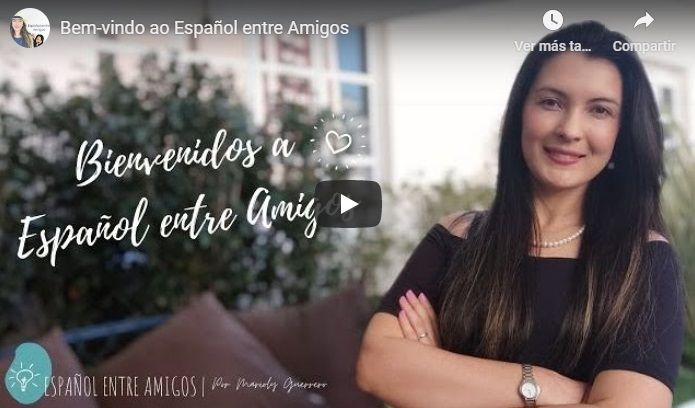
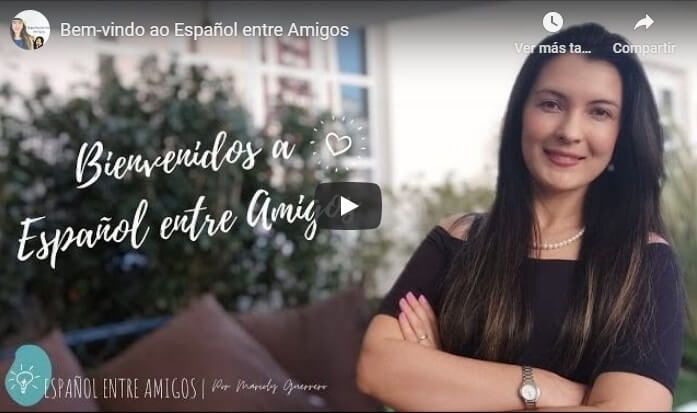
tareas de optimizacion

diff --git a/src/index.html b/src/index.html
@@ -5,14 +5,14 @@
     <title>Español entre Amigos</title>
     <base href="/">
     <meta name="viewport" content="width=device-width, initial-scale=1">
-    <link rel="icon" type="image/x-icon" href="favicon.ico">
-    <link href="https://fonts.googleapis.com/css?family=Raleway&amp;display=swap" rel="stylesheet">
-    <link href="https://fonts.googleapis.com/css?family=Amatic+SC&amp;display=swap" rel="stylesheet">
+    <meta name="theme-color" content="#1976d2">
     <link rel="manifest" href="manifest.webmanifest">
-  <meta name="theme-color" content="#1976d2">
 </head>
   <body>
     <app-root></app-root>
+    <link rel="icon" type="image/x-icon" href="favicon.ico">
+    <link href="https://fonts.googleapis.com/css?family=Raleway&amp;display=swap" rel="stylesheet">
+    <link href="https://fonts.googleapis.com/css?family=Amatic+SC&amp;display=swap" rel="stylesheet">
     <!-- Global site tag (gtag.js) - Google Analytics -->
     <script async="" src="https://www.googletagmanager.com/gtag/js?id=G-0G922NQS1C"></script>
     <script>

diff --git a/src/app/website/home/components/counter/counter.component.ts b/src/app/website/home/components/counter/counter.component.ts
@@ -1,4 +1,4 @@
-import { Component, OnInit } from '@angular/core';
+import { Component } from '@angular/core';
 
 import { faChalkboardTeacher, faComment, faUserGraduate, faGrinTears, faInfinity } from '@fortawesome/free-solid-svg-icons';
 
@@ -7,7 +7,7 @@ import { faChalkboardTeacher, faComment, faUserGraduate, faGrinTears, faInfinity
   templateUrl: './counter.component.html',
   styleUrls: ['./counter.component.scss']
 })
-export class CounterComponent implements OnInit {
+export class CounterComponent {
 
   icons = {
     faChalkboardTeacher,
@@ -16,9 +16,4 @@ export class CounterComponent implements OnInit {
     faGrinTears,
     faInfinity
   };
-  constructor() { }
-
-  ngOnInit() {
-  }
-
 }

diff --git a/src/app/website/components/footer/footer.component.ts b/src/app/website/components/footer/footer.component.ts
@@ -1,4 +1,4 @@
-import { Component, OnInit } from '@angular/core';
+import { Component } from '@angular/core';
 import { faFacebook, faInstagram, faYoutube, faSpotify, faAngular } from '@fortawesome/free-brands-svg-icons';
 
 @Component({
@@ -6,17 +6,11 @@ import { faFacebook, faInstagram, faYoutube, faSpotify, faAngular } from '@forta
   templateUrl: './footer.component.html',
   styleUrls: ['./footer.component.scss']
 })
-export class FooterComponent implements OnInit {
+export class FooterComponent {
 
   faFacebook = faFacebook;
   faInstagram = faInstagram;
   faYoutube = faYoutube;
   faSpotify = faSpotify;
   faAngular = faAngular;
-
-  constructor() { }
-
-  ngOnInit() {
-  }
-
 }

diff --git a/src/app/website/blog/components/post-detail/post-detail.component.ts b/src/app/website/blog/components/post-detail/post-detail.component.ts
@@ -1,4 +1,4 @@
-import { Component, OnInit, Input, ViewEncapsulation } from '@angular/core';
+import { Component, Input, ViewEncapsulation } from '@angular/core';
 import { faArrowLeft } from '@fortawesome/free-solid-svg-icons';
 import { IPostDetail } from '../../models/IPostDetail.model';
 
@@ -8,17 +8,11 @@ import { IPostDetail } from '../../models/IPostDetail.model';
   styleUrls: ['./post-detail.component.scss'],
   encapsulation: ViewEncapsulation.None,
 })
-export class PostDetailComponent implements OnInit {
+export class PostDetailComponent {
 
   @Input() post: IPostDetail;
 
   icons = {
     faArrowLeft,
   };
-
-  constructor() {}
-
-  ngOnInit() {
-  }
-
 }

diff --git a/src/app/website/home/components/reviews/components/reviews-list/reviews-list.component.ts b/src/app/website/home/components/reviews/components/reviews-list/reviews-list.component.ts
@@ -1,4 +1,4 @@
-import { Component, OnInit, Input } from '@angular/core';
+import { Component, Input } from '@angular/core';
 import { IReview } from '../../models/iReview.model';
 
 @Component({
@@ -6,13 +6,8 @@ import { IReview } from '../../models/iReview.model';
   templateUrl: './reviews-list.component.html',
   styleUrls: ['./reviews-list.component.scss']
 })
-export class ReviewsListComponent implements OnInit {
+export class ReviewsListComponent {
 
   @Input() reviews: IReview[];
-
-  constructor() { }
-
-  ngOnInit() {
-  }
 
 }

diff --git a/src/app/website/blog/components/post-card-list/post-card-list.component.ts b/src/app/website/blog/components/post-card-list/post-card-list.component.ts
@@ -1,4 +1,4 @@
-import { Component, OnInit, Input } from '@angular/core';
+import { Component, Input } from '@angular/core';
 import { IPosts } from '../../models/IPosts.model';
 
 @Component({
@@ -6,13 +6,8 @@ import { IPosts } from '../../models/IPosts.model';
   templateUrl: './post-card-list.component.html',
   styleUrls: ['./post-card-list.component.scss']
 })
-export class PostCardListComponent implements OnInit {
+export class PostCardListComponent {
 
   @Input() posts: IPosts[];
-
-  constructor() { }
-
-  ngOnInit() {
-  }
 
 }

diff --git a/src/app/website/blog/components/post-card/post-card.component.ts b/src/app/website/blog/components/post-card/post-card.component.ts
@@ -1,4 +1,4 @@
-import { Component, OnInit, Input } from '@angular/core';
+import { Component, Input } from '@angular/core';
 import { IPosts } from '../../models/IPosts.model';
 
 @Component({
@@ -6,13 +6,8 @@ import { IPosts } from '../../models/IPosts.model';
   templateUrl: './post-card.component.html',
   styleUrls: ['./post-card.component.scss']
 })
-export class PostCardComponent implements OnInit {
+export class PostCardComponent {
 
   @Input() post: IPosts;
-
-  constructor() { }
-
-  ngOnInit() {
-  }
 
 }

diff --git a/src/app/website/home/components/about-espanhol-entre-amigos/about-espanhol-entre-amigos.component.scss b/src/app/website/home/components/about-espanhol-entre-amigos/about-espanhol-entre-amigos.component.scss
@@ -11,7 +11,7 @@
     align-self: center;
     grid-row-start: 2;
     grid-row-end: 3;
-    background: url('src/assets/images/home/youtube.jpg') no-repeat;
+    background: url('src/assets/images/home/youtube.jpg') no-repeat center;
     background-size: contain;
     @media only screen and (min-width: 987px) {
       padding: 5rem;
@@ -19,6 +19,7 @@
       grid-row-end: 2;
       justify-self: center;
       align-self: center;
+      background-size: auto;
     }
     iframe{
       width: 100%;

diff --git a/src/app/website/home/components/about-espanhol-entre-amigos/about-espanhol-entre-amigos.component.ts b/src/app/website/home/components/about-espanhol-entre-amigos/about-espanhol-entre-amigos.component.ts
@@ -1,17 +1,12 @@
-import { Component, OnInit } from '@angular/core';
+import { Component } from '@angular/core';
 
 @Component({
   selector: 'app-about-espanhol-entre-amigos',
   templateUrl: './about-espanhol-entre-amigos.component.html',
   styleUrls: ['./about-espanhol-entre-amigos.component.scss']
 })
-export class AboutEspanholEntreAmigosComponent implements OnInit {
+export class AboutEspanholEntreAmigosComponent {
 
   showVideo = false;
-
-  constructor() { }
-
-  ngOnInit() {
-  }
 
 }

diff --git a/src/app/website/blog/components/blog-sidebar/blog-sidebar.component.ts b/src/app/website/blog/components/blog-sidebar/blog-sidebar.component.ts
@@ -1,15 +1,8 @@
-import { Component, OnInit } from '@angular/core';
+import { Component } from '@angular/core';
 
 @Component({
   selector: 'app-blog-sidebar',
   templateUrl: './blog-sidebar.component.html',
   styleUrls: ['./blog-sidebar.component.scss']
 })
-export class BlogSidebarComponent implements OnInit {
-
-  constructor() { }
-
-  ngOnInit() {
-  }
-
-}
+export class BlogSidebarComponent {}

diff --git a/src/app/website/about-me/components/about-me/about-me.component.ts b/src/app/website/about-me/components/about-me/about-me.component.ts
@@ -1,15 +1,8 @@
-import { Component, OnInit } from '@angular/core';
+import { Component } from '@angular/core';
 
 @Component({
   selector: 'app-about-me',
   templateUrl: './about-me.component.html',
   styleUrls: ['./about-me.component.scss']
 })
-export class AboutMeComponent implements OnInit {
-
-  constructor() { }
-
-  ngOnInit() {
-  }
-
-}
+export class AboutMeComponent {}

diff --git a/src/app/website/home/components/about-me/about-me.component.ts b/src/app/website/home/components/about-me/about-me.component.ts
@@ -1,15 +1,8 @@
-import { Component, OnInit } from '@angular/core';
+import { Component } from '@angular/core';
 
 @Component({
   selector: 'app-about-me',
   templateUrl: './about-me.component.html',
   styleUrls: ['./about-me.component.scss']
 })
-export class AboutMeComponent implements OnInit {
-
-  constructor() { }
-
-  ngOnInit() {
-  }
-
-}
+export class AboutMeComponent {}
